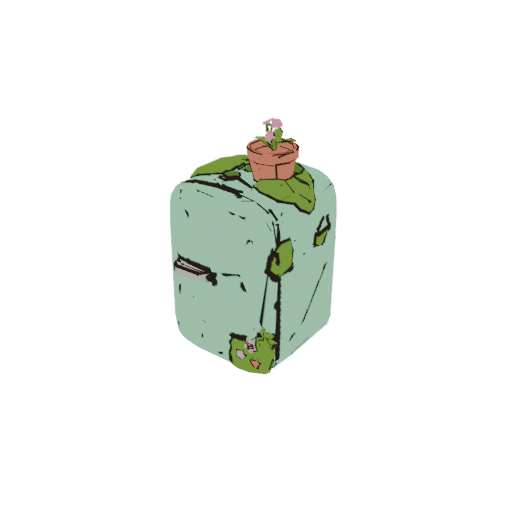
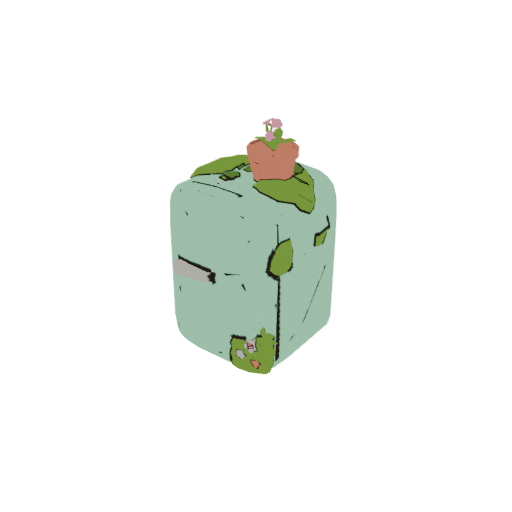
MUNDO_ENFEITES E3: tracos limpos, a faixa perto da casa, a secao 11 e o registro

diff --git a/web/app/src/telas/pet/ilha/constantes.ts b/web/app/src/telas/pet/ilha/constantes.ts
@@ -83,8 +83,10 @@ export const ENFEITES_GRADE = {
   sal: 0x5e7e17e5, tentativas: 4000,
   poste: { quantos: 14, perto: 1.5, longe: 4, entreSi: 4, deAlto: 2, folga: 0, norte: false, casa: 0 },
   carro: { quantos: 1, perto: 1.5, longe: 3, entreSi: 3, deAlto: 2, folga: 1, norte: true, casa: 12 },
-  geladeira: { quantos: 1, perto: 1.5, longe: 3.5, entreSi: 3, deAlto: 1.8, folga: 1, norte: true, casa: 24 },
-  trilho: { quantos: 1, perto: 1.5, longe: 4, entreSi: 3, deAlto: 1.6, folga: 1, norte: true, casa: 32 },
+  /* a geladeira e o trilho numa faixa de x a partir do ninho que a camera ve sem o painel Estado na frente (o revisor achou o trilho
+     atras dele, em x = 20 no mvp) */
+  geladeira: { quantos: 1, perto: 1.5, longe: 3.5, entreSi: 3, deAlto: 1.4, folga: 1, norte: true, casa: 0, faixa: [-12, 14] },
+  trilho: { quantos: 1, perto: 1.5, longe: 4, entreSi: 3, deAlto: 1.6, folga: 1, norte: true, casa: 0, faixa: [-9, 9] },
 } as const;
 /** a luz dos enfeites a noite (enfeites.ts): o halo na lanterna, na fracao `altura` da altura do modelo, com `tamanho` celulas de
     diametro, em cascas (as fracoes do tamanho) de opacidade `forca` cada (aditiva), e o quanto os vidros brilham (emissiveIntensity).

diff --git a/web/app/src/telas/pet/ilha/grade.ts b/web/app/src/telas/pet/ilha/grade.ts
@@ -246,8 +246,9 @@ export class Ilha {
       for (let k = 0, tent = 0; k < n; tent++) {
         if (tent >= n * ENFEITES_GRADE.tentativas) throw new Error(`sem lugar para o enfeite ${nome} na ilha ${this.cm.layout.nome}: ${k} de ${n}`);
         /* os do norte sao sorteados so na faixa ao norte da area, a ate `casa` celulas do ninho em x (onde a camera da tela Pet mais fica;
-           pela grade inteira, quase nenhum sorteio cairia ali) */
-        const x = G.norte ? ninho[0] + (r() * 2 - 1) * G.casa : this.x0 + 0.5 + r() * (this.larg - 1);
+           pela grade inteira, quase nenhum sorteio cairia ali); com `faixa`, entre os dois deslocamentos em x a partir do ninho */
+        const x = !G.norte ? this.x0 + 0.5 + r() * (this.larg - 1)
+          : "faixa" in G ? ninho[0] + G.faixa[0] + r() * (G.faixa[1] - G.faixa[0]) : ninho[0] + (r() * 2 - 1) * G.casa;
         const z = G.norte ? -(G.perto + r() * (G.longe - G.perto)) : this.z0 + 0.5 + r() * (this.prof - 1);
         const d = this.distanciaDaArea(x, z);
         if (!plana(x, z, G.folga) || d < G.perto || d > G.longe || (G.norte && z >= 0)) continue;

diff --git a/web/app/test/ilha_enfeites.test.ts b/web/app/test/ilha_enfeites.test.ts
@@ -28,7 +28,12 @@ describe("onde ficam os enfeites (E-G10)", () => {
       expect(ilha.naArea(Math.floor(e.x), Math.floor(e.z))).toBe(false);
       expect(c.tipo).toBe("grama");
       expect(d).toBeGreaterThanOrEqual(G.perto); expect(d).toBeLessThanOrEqual(G.longe);
-      if (G.norte) { expect(e.z).toBeLessThan(0); expect(Math.abs(e.x - (cm.layout.ninho[0] + 0.5))).toBeLessThanOrEqual(G.casa); }
+      if (G.norte) {
+        const dx = e.x - (cm.layout.ninho[0] + 0.5);
+        expect(e.z).toBeLessThan(0);
+        if ("faixa" in G) { expect(dx).toBeGreaterThanOrEqual(G.faixa[0]); expect(dx).toBeLessThanOrEqual(G.faixa[1]); }
+        else expect(Math.abs(dx)).toBeLessThanOrEqual(G.casa);
+      }
       for (const o of altos) expect(Math.hypot(o.x - e.x, o.z - e.z)).toBeGreaterThanOrEqual(G.deAlto);
       /* a distancia de quem chega depois (a ordem da lista) */
       for (const f of ilha.enfeites.slice(0, ilha.enfeites.indexOf(e))) expect(Math.hypot(f.x - e.x, f.z - e.z)).toBeGreaterThanOrEqual(G.entreSi);

diff --git a/web/app/src/telas/config/TelaConfig.tsx b/web/app/src/telas/config/TelaConfig.tsx
@@ -205,7 +205,7 @@ function Sobre() {
           fica fora do repositório; sem ele, o jogo usa os sprites de reserva, de arte própria.</p>
         {/* os kits 3D da ilha (docs/TAREFA_V3_HABITAT_ILHA_3D.md, H1 e H-1): CC0, com as licencas em public/kits3d/ */}
         <p className="mc-credito-kits">As árvores, as plantas e as pedras da ilha são dos kits 3D de Quaternius (Stylized Nature MegaKit) e de Kay
-          Lousberg (KayKit Forest Nature Pack), em domínio público (CC0). A bola, o saco de pancada, o kit médico, o cocô, os postes de luz e o carro foram gerados com a Meshy (meshy.ai) e consertados no Blender.</p></section>
+          Lousberg (KayKit Forest Nature Pack), em domínio público (CC0). A bola, o saco de pancada, o kit médico, o cocô, os postes de luz, o carro, a geladeira e o trilho foram gerados com a Meshy (meshy.ai) e consertados no Blender.</p></section>
     </>
   );
 }

diff --git a/docs/enfeites/tracar_linhas.py b/docs/enfeites/tracar_linhas.py
@@ -2,8 +2,8 @@
 cartunesco, com tracos mais firmes, fortes, na textura mesmo", no jeito de Borderlands).
 
 Sobre a textura ja chapada (achatar_cores.py e limpar_faces.py), um traco escuro em cada aresta da malha que e:
-  - uma quina (o angulo entre as duas faces passa de LIMIAR graus, e a aresta tem pelo menos COMP_MIN de comprimento: as quininhas das
-    facetas arredondadas da Meshy davam riscos soltos) ou uma borda solta;
+  - uma quina grande (o angulo entre as duas faces passa de LIMIAR graus, e a aresta tem pelo menos COMP_MIN de comprimento: com 38 graus
+    e sem o comprimento, as facetas da Meshy davam riscos soltos e sujos, pelo revisor) ou uma borda solta;
   - uma divisa de cor (as duas faces tem cores diferentes; a cor de cada face e a mais comum no triangulo de UV dela).
 O traco e desenhado no segmento de UV da aresta em cada face dos dois lados (arestas_uv.py), com a ESPESSURA em pixels da textura de
 1024; metade dele cai dentro de cada triangulo. A cor e a tinta (TINTA), quase preta e quente. Os numeros sao PROPOSTOS, SEM FONTE.
@@ -14,7 +14,7 @@ import json, sys
 from collections import Counter
 from PIL import Image, ImageDraw
 
-LIMIAR, ESPESSURA, TINTA, COMP_MIN = 38.0, 7, (43, 34, 32), 0.06
+LIMIAR, ESPESSURA, TINTA, COMP_MIN = 70.0, 5, (43, 34, 32), 0.12
 
 
 def cor_das_faces(im: Image.Image, tris: list) -> list:

diff --git a/docs/registro/2026-11.md b/docs/registro/2026-11.md
@@ -1428,3 +1428,12 @@ E um achado: o e2e oscilou no mesmo código nas três rodadas da medida (3, 1 e 
   leitura); nenhuma decisão nova nem rng do modular. Sem decisão ainda (`ultimoMotivo` nulo) ou com o A ativo (3.7), o fator é `null` e o ε é o de hoje. PROPOSTO, teoria (Doya 2002), não medida.
 - **D-PE4-3, os testes que leem o registro do ovo novo (forma).** `test/jogo.test.ts` e `test/produto_fome.test.ts` esperam agora `{ luta: true, eps: true }` no ovo novo (como a D-PE3-6).
   Nenhum arquivo de gabarito mudou. O `ponte_luta_pe0.ts` aceita `ponte = "eps"`; `true` segue gravando `{ luta: true }`, de modo que os testes da PE3 continuam cobrindo os saves da PE3.
+
+## 2026-11-06 — MUNDO_ENFEITES, E3: a geladeira e o trilho (Gerente da frente, Claude Code, Opus 5.5, branch `v3-mundo-enfeites-e3`)
+
+- **D-EN-13, os traços de nanquim na textura (pedido do Matheus; números escolhidos).** `tracar_linhas.py`: divisas de cor e quinas de
+  mais de 70° com pelo menos 0,12 de comprimento, 5 px, a tinta (43, 34, 32). PROPOSTO, SEM FONTE. A rodada 1 (38°, 7 px) saiu suja.
+- **D-EN-14, a faixa de x dos marcos novos (forma e números escolhidos).** `ENFEITES_GRADE.geladeira` e `.trilho` ganham `faixa` (o
+  deslocamento em x a partir do ninho), no lugar de `casa`, para ficarem onde a câmera vê sem o painel Estado; o carro fica como estava.
+- **D-EN-15, os postes e o carro sem traços (escopo).** O pedido chegou no meio da E3; levar os traços aos dois é uma decisão à parte.
+

diff --git a/docs/REGISTRO_DESVIOS.md b/docs/REGISTRO_DESVIOS.md
@@ -542,3 +542,4 @@ de base em `docs/historico/registro_lotes.json`.
 - [2026-11-06 — INFRA_AGENTES, etapa E6, o Bash só de leitura do auditor (worker, Claude Code, Opus 5.5, branch `v3-infra-agentes-e6`)](registro/2026-11.md)
 - [2026-11-06 — INFRA_AGENTES, etapa E7, as medições do combate no gate (worker, Claude Code, Opus 5.5, branch `v3-infra-agentes-e7`)](registro/2026-11.md)
 - [2026-11-06 — PONTE_LUTA, etapa PE4, o ε da luta pelo `g_exp` do modular (worker, Claude Code, Sonnet 5.5, branch `v3-ponte-luta-pe4`)](registro/2026-11.md)
+- [2026-11-06 — MUNDO_ENFEITES, E3: a geladeira e o trilho (Gerente da frente, Claude Code, Opus 5.5, branch `v3-mundo-enfeites-e3`)](registro/2026-11.md)
